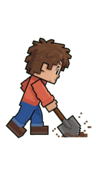
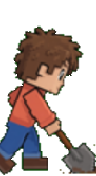
fix: transparent hero sprites + uniform scale (v1.9.003)
Walk/jump frames were shipping with solid black backgrounds (~50%
opaque black) from a bad keying pass, and frame content heights
differed so the character looked like it resized every pose.

- Re-key all hero PNGs: edge-flood remove black BG, keep shoes/hair
- Normalize every frame to 96×176 with body height 150, feet bottom
- Cache-bust image loads with GAME_VERSION query param
- Bump SW cache to 1.9.003 so installed PWAs pick up new assets

diff --git a/js/textures/textures.js b/js/textures/textures.js
@@ -1,4 +1,5 @@
 import { BLOCK, BLOCK_META } from '../content/blocks.js';
+import { GAME_VERSION } from '../core/constants.js';
 
 /**
  * Texture atlas loader + softer cube bake (less harsh outlines/seams).
@@ -75,7 +76,9 @@ export function loadImage(src) {
     const img = new Image();
     img.onload = () => resolve(img);
     img.onerror = () => reject(new Error('fail ' + src));
-    img.src = src;
+    // Bust SW/browser cache when GAME_VERSION changes (critical for sprite fixes)
+    const join = src.includes('?') ? '&' : '?';
+    img.src = src + join + 'v=' + GAME_VERSION;
   });
 }
 

diff --git a/js/core/constants.js b/js/core/constants.js
@@ -1,6 +1,6 @@
 /** Engine constants — version, viewport, physics. Content catalogs live in content/. */
 
-export const GAME_VERSION = '1.9.002';
+export const GAME_VERSION = '1.9.003';
 export const GAME_VERSION_LABEL = 'v' + GAME_VERSION;
 export const GAME_NAME = 'Blockbound';
 

diff --git a/index.html b/index.html
@@ -155,6 +155,6 @@
   </div>
 
   <!-- ?v= busts sticky SW/browser caches when version bumps -->
-  <script type="module" src="js/main.js?v=1.9.002"></script>
+  <script type="module" src="js/main.js?v=1.9.003"></script>
 </body>
 </html>

diff --git a/sw.js b/sw.js
@@ -1,5 +1,5 @@
 // Blockbound — keep CACHE in sync with GAME_VERSION in js/core/constants.js
-const CACHE = 'blockbound-1.9.002';
+const CACHE = 'blockbound-1.9.003';
 
 const ASSETS = [
   './',
